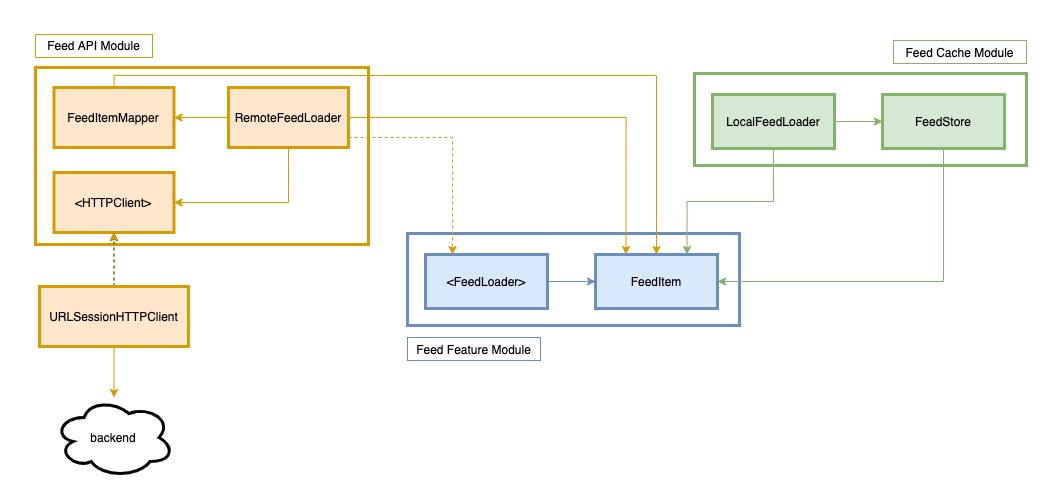
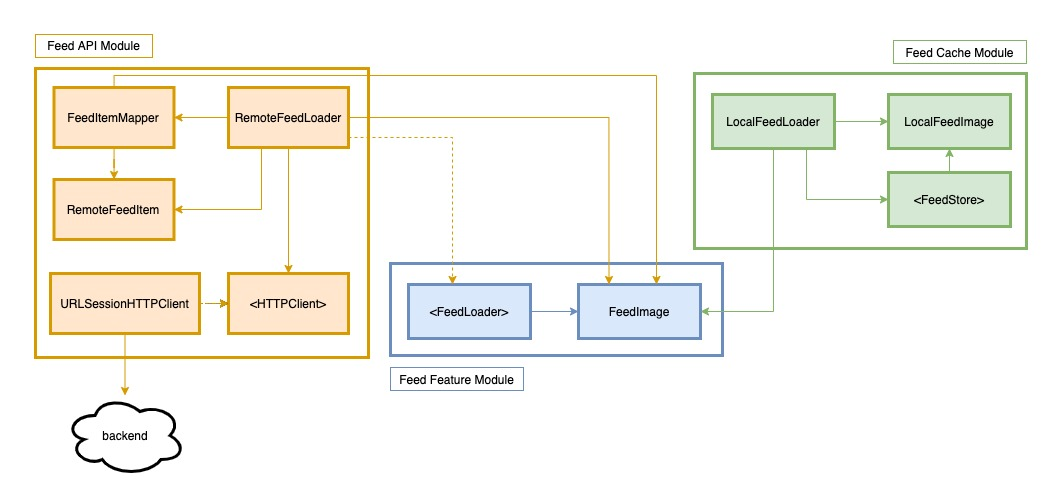
Remove references of `Items` in favor of `Images` which is a domain term used by domain experts in the specs

diff --git a/EssentialFeed/EssentialFeedTests/Feed Cache/CacheFeedUseCaseTests.swift b/EssentialFeed/EssentialFeedTests/Feed Cache/CacheFeedUseCaseTests.swift
@@ -18,7 +18,7 @@ class CacheFeedUseCaseTests: XCTestCase {
     func test_save_requestCacheDeletion() {
         let (sut, store) = makeSUT()
         
-        sut.save(uniqueItems().models) { _ in }
+        sut.save(uniqueImageFeed().models) { _ in }
         
         XCTAssertEqual(store.receivedMessages, [.deleteCacheFeed])
     }
@@ -27,7 +27,7 @@ class CacheFeedUseCaseTests: XCTestCase {
         let (sut, store) = makeSUT()
         let error = anyNSError()
         
-        sut.save(uniqueItems().models) { _ in }
+        sut.save(uniqueImageFeed().models) { _ in }
         store.completeDeletion(with: error)
         
         XCTAssertEqual(store.receivedMessages, [.deleteCacheFeed])
@@ -35,13 +35,13 @@ class CacheFeedUseCaseTests: XCTestCase {
     
     func test_save_doesRequestInsertionWithTimestampOnDeletionSuccess() {
         let timestamp = Date()
-        let items = uniqueItems()
+        let feed = uniqueImageFeed()
         let (sut, store) = makeSUT(currentDate: { timestamp })
         
-        sut.save(items.models) { _ in }
+        sut.save(feed.models) { _ in }
         store.completeDeletionSuccessfully()
         
-        XCTAssertEqual(store.receivedMessages, [.deleteCacheFeed, .insert(items.locals, timestamp)])
+        XCTAssertEqual(store.receivedMessages, [.deleteCacheFeed, .insert(feed.locals, timestamp)])
     }
     
     func test_save_failsOnDeletionError() {
@@ -77,7 +77,7 @@ class CacheFeedUseCaseTests: XCTestCase {
         var sut: LocalFeedLoader? = LocalFeedLoader(store: store)
         
         var receivedErrors = [LocalFeedLoader.SaveResult]()
-        sut?.save(uniqueItems().models) { receivedErrors.append($0 )}
+        sut?.save(uniqueImageFeed().models) { receivedErrors.append($0 )}
         
         sut = nil
         store.completeDeletion(with: anyNSError())
@@ -90,7 +90,7 @@ class CacheFeedUseCaseTests: XCTestCase {
         var sut: LocalFeedLoader? = LocalFeedLoader(store: store)
         
         var receivedErrors = [LocalFeedLoader.SaveResult]()
-        sut?.save(uniqueItems().models) { receivedErrors.append($0 )}
+        sut?.save(uniqueImageFeed().models) { receivedErrors.append($0 )}
 
         store.completeDeletionSuccessfully()
         sut = nil
@@ -113,7 +113,7 @@ class CacheFeedUseCaseTests: XCTestCase {
         let exp = expectation(description: "Wait for save completion")
         
         var receivedError: Error?
-        sut.save(uniqueItems().models) { error in
+        sut.save(uniqueImageFeed().models) { error in
             receivedError = error
             exp.fulfill()
         }
@@ -124,14 +124,14 @@ class CacheFeedUseCaseTests: XCTestCase {
         XCTAssertEqual(receivedError as NSError?, expectedError)
     }
     
-    private func uniqueItem() -> FeedItem {
-        return FeedItem(id: UUID(), description: "any", location: "any", imageURL: anyURL())
+    private func uniqueImage() -> FeedImage {
+        return FeedImage(id: UUID(), description: "any", location: "any", url: anyURL())
     }
     
-    private func uniqueItems() -> (models: [FeedItem], locals: [LocalFeedItem]) {
-        let items = [uniqueItem(), uniqueItem()]
-        let localItems = items.map { LocalFeedItem(id: $0.id, description: $0.description, location: $0.location, imageURL: $0.imageURL) }
-        return (items, localItems)
+    private func uniqueImageFeed() -> (models: [FeedImage], locals: [LocalFeedImage]) {
+        let feed = [uniqueImage(), uniqueImage()]
+        let localFeed = feed.map { LocalFeedImage(id: $0.id, description: $0.description, location: $0.location, url: $0.url) }
+        return (feed, localFeed)
     }
     
     private func anyURL() -> URL {
@@ -148,7 +148,7 @@ class CacheFeedUseCaseTests: XCTestCase {
         
         enum ReceivedMessage: Equatable {
             case deleteCacheFeed
-            case insert([LocalFeedItem], Date)
+            case insert([LocalFeedImage], Date)
         }
         
         var receivedMessages = [ReceivedMessage]()
@@ -169,9 +169,9 @@ class CacheFeedUseCaseTests: XCTestCase {
             deleteCompletions[index](nil)
         }
         
-        func insert(_ items: [LocalFeedItem], timestamp: Date, completion: @escaping InserteCompletion) {
+        func insert(_ feed: [LocalFeedImage], timestamp: Date, completion: @escaping InserteCompletion) {
             insertCompletions.append(completion)
-            receivedMessages.append(.insert(items, timestamp))
+            receivedMessages.append(.insert(feed, timestamp))
         }
 
         func completeInsertion(with error: Error, at index: Int = 0) {

diff --git a/EssentialFeed/EssentialFeedAPIEndToEndTests/EssentialFeedAPIEndToEndTests.swift b/EssentialFeed/EssentialFeedAPIEndToEndTests/EssentialFeedAPIEndToEndTests.swift
@@ -13,17 +13,17 @@ class EssentialFeedAPIEndToEndTests: XCTestCase {
     
     func test_endToEndTestServerGETFeedResult_matchesFixedTestAccountData() {
         switch getFeedResult() {
-        case let .success(items):
-            XCTAssertEqual(items.count, 8)
+        case let .success(imageFeed):
+            XCTAssertEqual(imageFeed.count, 8)
             
-            XCTAssertEqual(items[0], expectedItem(at: 0))
-            XCTAssertEqual(items[1], expectedItem(at: 1))
-            XCTAssertEqual(items[2], expectedItem(at: 2))
-            XCTAssertEqual(items[3], expectedItem(at: 3))
-            XCTAssertEqual(items[4], expectedItem(at: 4))
-            XCTAssertEqual(items[5], expectedItem(at: 5))
-            XCTAssertEqual(items[6], expectedItem(at: 6))
-            XCTAssertEqual(items[7], expectedItem(at: 7))
+            XCTAssertEqual(imageFeed[0], expectedImage(at: 0))
+            XCTAssertEqual(imageFeed[1], expectedImage(at: 1))
+            XCTAssertEqual(imageFeed[2], expectedImage(at: 2))
+            XCTAssertEqual(imageFeed[3], expectedImage(at: 3))
+            XCTAssertEqual(imageFeed[4], expectedImage(at: 4))
+            XCTAssertEqual(imageFeed[5], expectedImage(at: 5))
+            XCTAssertEqual(imageFeed[6], expectedImage(at: 6))
+            XCTAssertEqual(imageFeed[7], expectedImage(at: 7))
             
         case let .failure(error):
             XCTFail("Expected successful feed result, got \(error) instead")
@@ -54,11 +54,11 @@ class EssentialFeedAPIEndToEndTests: XCTestCase {
         return receivedResult
     }
     
-    private func expectedItem(at index: Int) -> FeedItem {
-        return FeedItem(id: id(at: index),
+    private func expectedImage(at index: Int) -> FeedImage {
+        return FeedImage(id: id(at: index),
                         description: description(at: index),
                         location: location(at: index),
-                        imageURL: imageURL(at: index))
+                        url: imageURL(at: index))
     }
     
     private func id(at index: Int) -> UUID {

diff --git a/EssentialFeed/EssentialFeed/Feed Cache/LocalFeedLoader.swift b/EssentialFeed/EssentialFeed/Feed Cache/LocalFeedLoader.swift
@@ -19,29 +19,29 @@ public final class LocalFeedLoader {
         self.currentDate = currentDate
     }
     
-    public func save(_ items: [FeedItem], completion: @escaping (SaveResult) -> Void) {
+    public func save(_ feed: [FeedImage], completion: @escaping (SaveResult) -> Void) {
         store.deleteCacheFeed { [weak self] error in
             guard let self = self else { return }
             
             if let cacheDeletionError = error {
                 completion(cacheDeletionError)
             } else {
-                self.cache(items, with: completion)
+                self.cache(feed, with: completion)
             }
         }
     }
     
-    private func cache(_ items: [FeedItem], with completion: @escaping (SaveResult) -> Void) {
-        store.insert(items.toLocal(), timestamp: currentDate()) { [weak self] error in
+    private func cache(_ feed: [FeedImage], with completion: @escaping (SaveResult) -> Void) {
+        store.insert(feed.toLocal(), timestamp: currentDate()) { [weak self] error in
             guard self != nil else { return }
             completion(error)
         }
     }
 }
 
-private extension Array where Element == FeedItem {
-    func toLocal() -> [LocalFeedItem] {
-        return map { LocalFeedItem(id: $0.id, description: $0.description, location: $0.location, imageURL: $0.imageURL) }
+private extension Array where Element == FeedImage {
+    func toLocal() -> [LocalFeedImage] {
+        return map { LocalFeedImage(id: $0.id, description: $0.description, location: $0.location, url: $0.url) }
     }
 }
  

diff --git a/EssentialFeed/EssentialFeedTests/Feed API/LoadFeedFromRemoteUseCaseTests.swift b/EssentialFeed/EssentialFeedTests/Feed API/LoadFeedFromRemoteUseCaseTests.swift
@@ -122,17 +122,17 @@ class LoadFeedFromRemoteUseCaseTests: XCTestCase {
         return .failure(error)
     }
     
-    private func makeItem(id: UUID, description: String? = nil, location: String? = nil, imageURL: URL) -> (model: FeedItem, json: [String: Any]) {
-        let item = FeedItem(id: id,
+    private func makeItem(id: UUID, description: String? = nil, location: String? = nil, imageURL: URL) -> (model: FeedImage, json: [String: Any]) {
+        let item = FeedImage(id: id,
                             description: description,
                             location: location,
-                            imageURL: imageURL)
+                            url: imageURL)
         
         let json = [
             "id": item.id.uuidString,
             "description": item.description,
             "location": item.location,
-            "image": item.imageURL.absoluteString
+            "image": item.url.absoluteString
         ].reduce(into: [String: Any]()) { (acc, e) in
             if let value = e.value { acc[e.key] = value }
         }

diff --git a/EssentialFeed/EssentialFeed/Feed Feature/FeedImage.swift b/EssentialFeed/EssentialFeed/Feed Feature/FeedImage.swift
@@ -1,23 +1,23 @@
 //
-//  LocalFeedItem.swift
+//  FeedImage.swift
 //  EssentialFeed
 //
-//  Created by chihyin wang on 2020/8/7.
+//  Created by chihyin wang on 2020/7/30.
 //  Copyright © 2020 chihyinwang. All rights reserved.
 //
 
 import Foundation
 
-public struct LocalFeedItem: Equatable {
+public struct FeedImage: Equatable {
     public let id: UUID
     public let description: String?
     public let location: String?
-    public let imageURL: URL
+    public let url: URL
     
-    public init(id: UUID, description: String?, location: String?, imageURL: URL) {
+    public init(id: UUID, description: String?, location: String?, url: URL) {
         self.id = id
         self.description = description
         self.location = location
-        self.imageURL = imageURL
+        self.url = url
     }
 }

diff --git a/EssentialFeed/EssentialFeed/Feed Cache/LocalFeedImage.swift b/EssentialFeed/EssentialFeed/Feed Cache/LocalFeedImage.swift
@@ -1,0 +1,23 @@
+//
+//  LocalFeedItem.swift
+//  EssentialFeed
+//
+//  Created by chihyin wang on 2020/8/7.
+//  Copyright © 2020 chihyinwang. All rights reserved.
+//
+
+import Foundation
+
+public struct LocalFeedImage: Equatable {
+    public let id: UUID
+    public let description: String?
+    public let location: String?
+    public let url: URL
+    
+    public init(id: UUID, description: String?, location: String?, url: URL) {
+        self.id = id
+        self.description = description
+        self.location = location
+        self.url = url
+    }
+}

diff --git a/EssentialFeed/EssentialFeed/Feed API/RemoteFeedLoader.swift b/EssentialFeed/EssentialFeed/Feed API/RemoteFeedLoader.swift
@@ -48,7 +48,7 @@ public final class RemoteFeedLoader: FeedLoader {
 }
 
 private extension Array where Element == RemoteFeedItem {
-    func toModels() -> [FeedItem] {
-        return map { FeedItem(id: $0.id, description: $0.description, location: $0.location, imageURL: $0.image) }
+    func toModels() -> [FeedImage] {
+        return map { FeedImage(id: $0.id, description: $0.description, location: $0.location, url: $0.image) }
     }
 }

diff --git a/EssentialFeed/EssentialFeed/Feed Cache/FeedStore.swift b/EssentialFeed/EssentialFeed/Feed Cache/FeedStore.swift
@@ -13,5 +13,5 @@ public protocol FeedStore {
     typealias InserteCompletion = (Error?) -> Void
     
     func deleteCacheFeed(completion: @escaping DeleteCompletion)
-    func insert(_ items: [LocalFeedItem], timestamp: Date, completion: @escaping InserteCompletion)
+    func insert(_ feed: [LocalFeedImage], timestamp: Date, completion: @escaping InserteCompletion)
 }

diff --git a/EssentialFeed/EssentialFeed/Feed Feature/FeedLoader.swift b/EssentialFeed/EssentialFeed/Feed Feature/FeedLoader.swift
@@ -9,7 +9,7 @@
 import Foundation
 
 public enum LoadFeedResult {
-    case success([FeedItem])
+    case success([FeedImage])
     case failure(Error)
 }
 

diff --git a/README.md b/README.md
@@ -60,11 +60,11 @@ Given the customer doesn't have connectivity
 - URL
 
 #### Primary course (happy path):
-1. Execute "Load Feed Items" command with above data.
+1. Execute "Load Image Feed" command with above data.
 2. System downloads data from the URL.
 3. System validates downloaded data.
-4. System creates feed items from valid data.
-5. System delivers feed items.
+4. System creates image feed from valid data.
+5. System delivers image feed.
 
 #### Invalid data – error course (sad path):
 1. System delivers invalid data error.
@@ -76,32 +76,32 @@ Given the customer doesn't have connectivity
 ### Load Feed From Cache Use Case
 
 #### Primary course:
-1. Execute "Load Feed Items" command with above data.
+1. Execute "Load Image Feed" command with above data.
 2. System fetches feed data from cache.
 3. System validates cache is less than seven days old.
-4. System creates feed items from cached data.
-5. System delivers feed items.
+4. System creates image feed from cached data.
+5. System delivers image feed.
 
 #### Error course (sad path):
 1. System delivers error.
 
 #### Expired cache course (sad path): 
 1. System deletes cache.
-2. System delivers no feed items.
+2. System delivers no feed images.
 
 #### Empty cache course (sad path): 
-1. System delivers no feed items.
+1. System delivers no feed images.
 
 
 ### Cache Feed Use Case
 
 #### Data:
-- Feed items
+- Feed images
 
 #### Primary course (happy path):
-1. Execute "Save Feed Items" command with above data.
+1. Execute "Save Image Feed" command with above data.
 2. System deletes old cache data.
-3. System encodes feed items.
+3. System encodes image feed.
 4. System timestamps the new cache.
 5. System saves new cache data.
 6. System delivers success message.
@@ -126,14 +126,14 @@ Given the customer doesn't have connectivity
 
 ## Model Specs
 
-### Feed Item
+### Feed Image
 
 | Property      | Type                |
 |---------------|---------------------|
 | `id`          | `UUID`              |
 | `description` | `String` (optional) |
 | `location`    | `String` (optional) |
-| `imageURL`    | `URL`               |
+| `url`    | url`               |
 
 ### Payload contract
 
